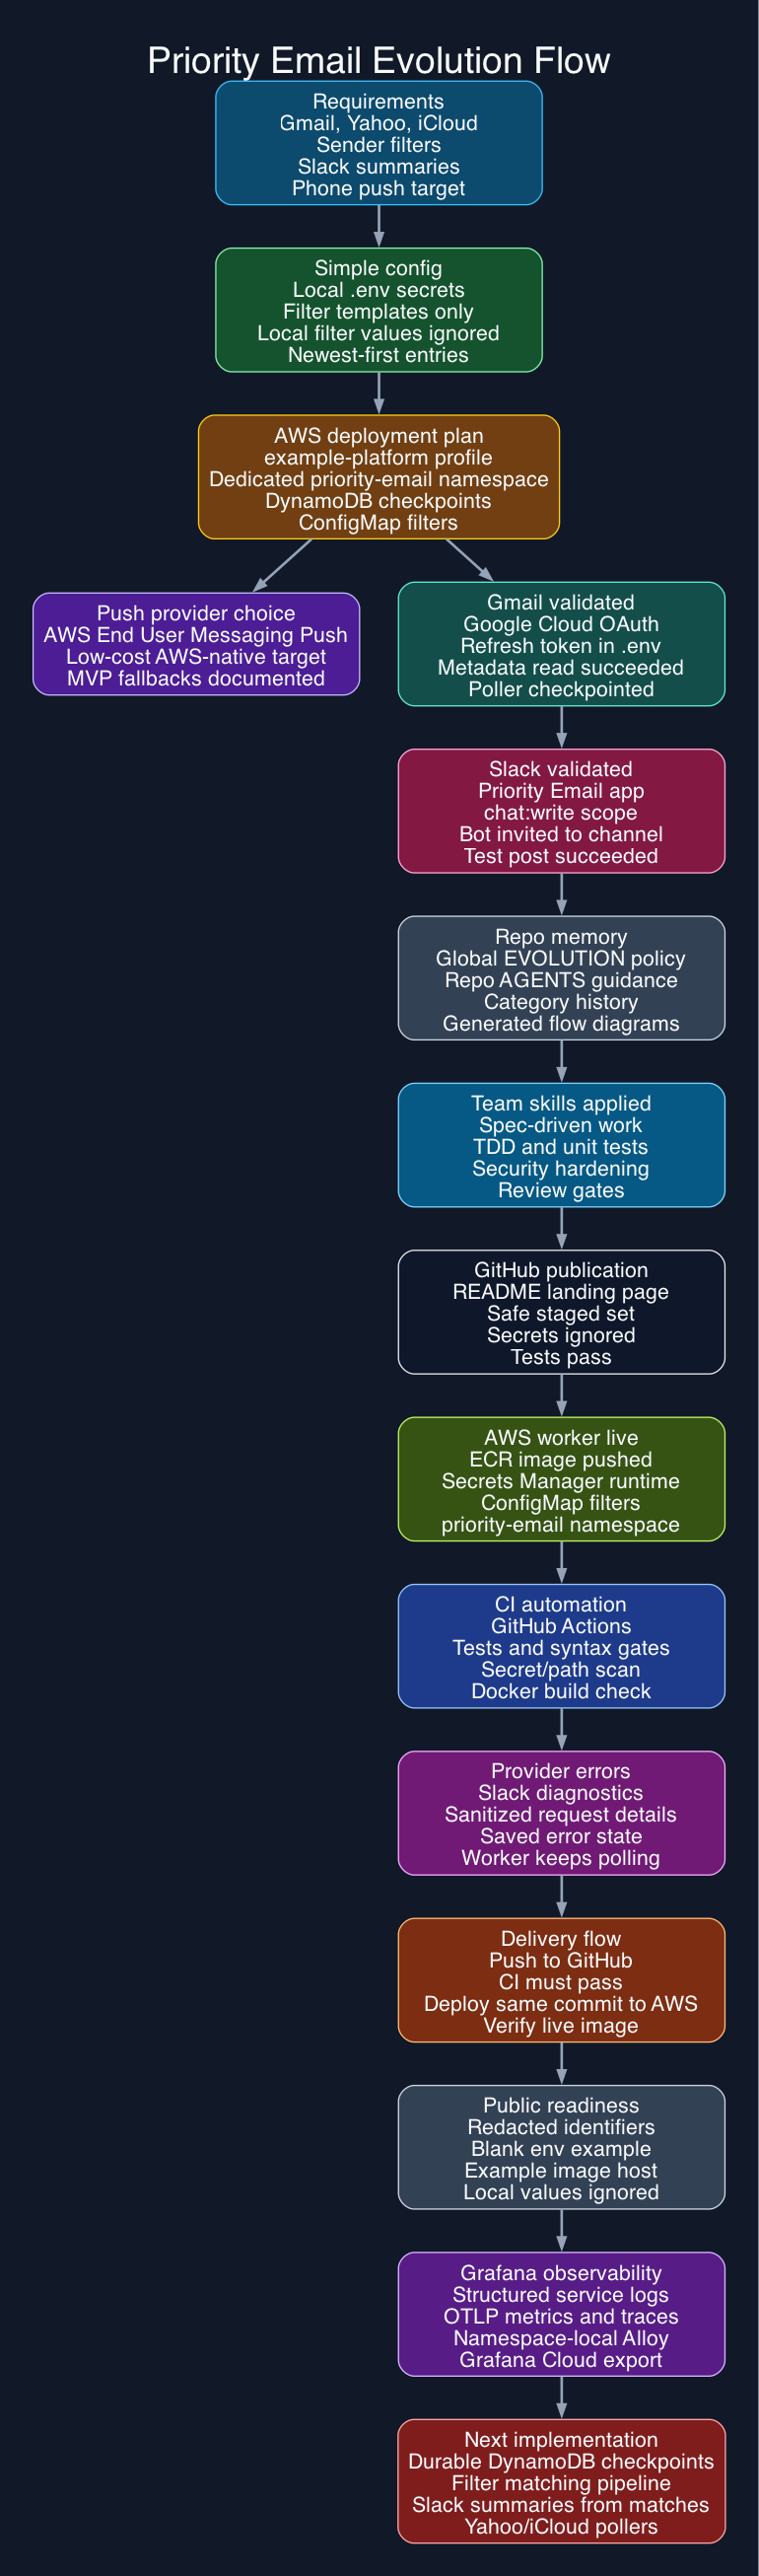
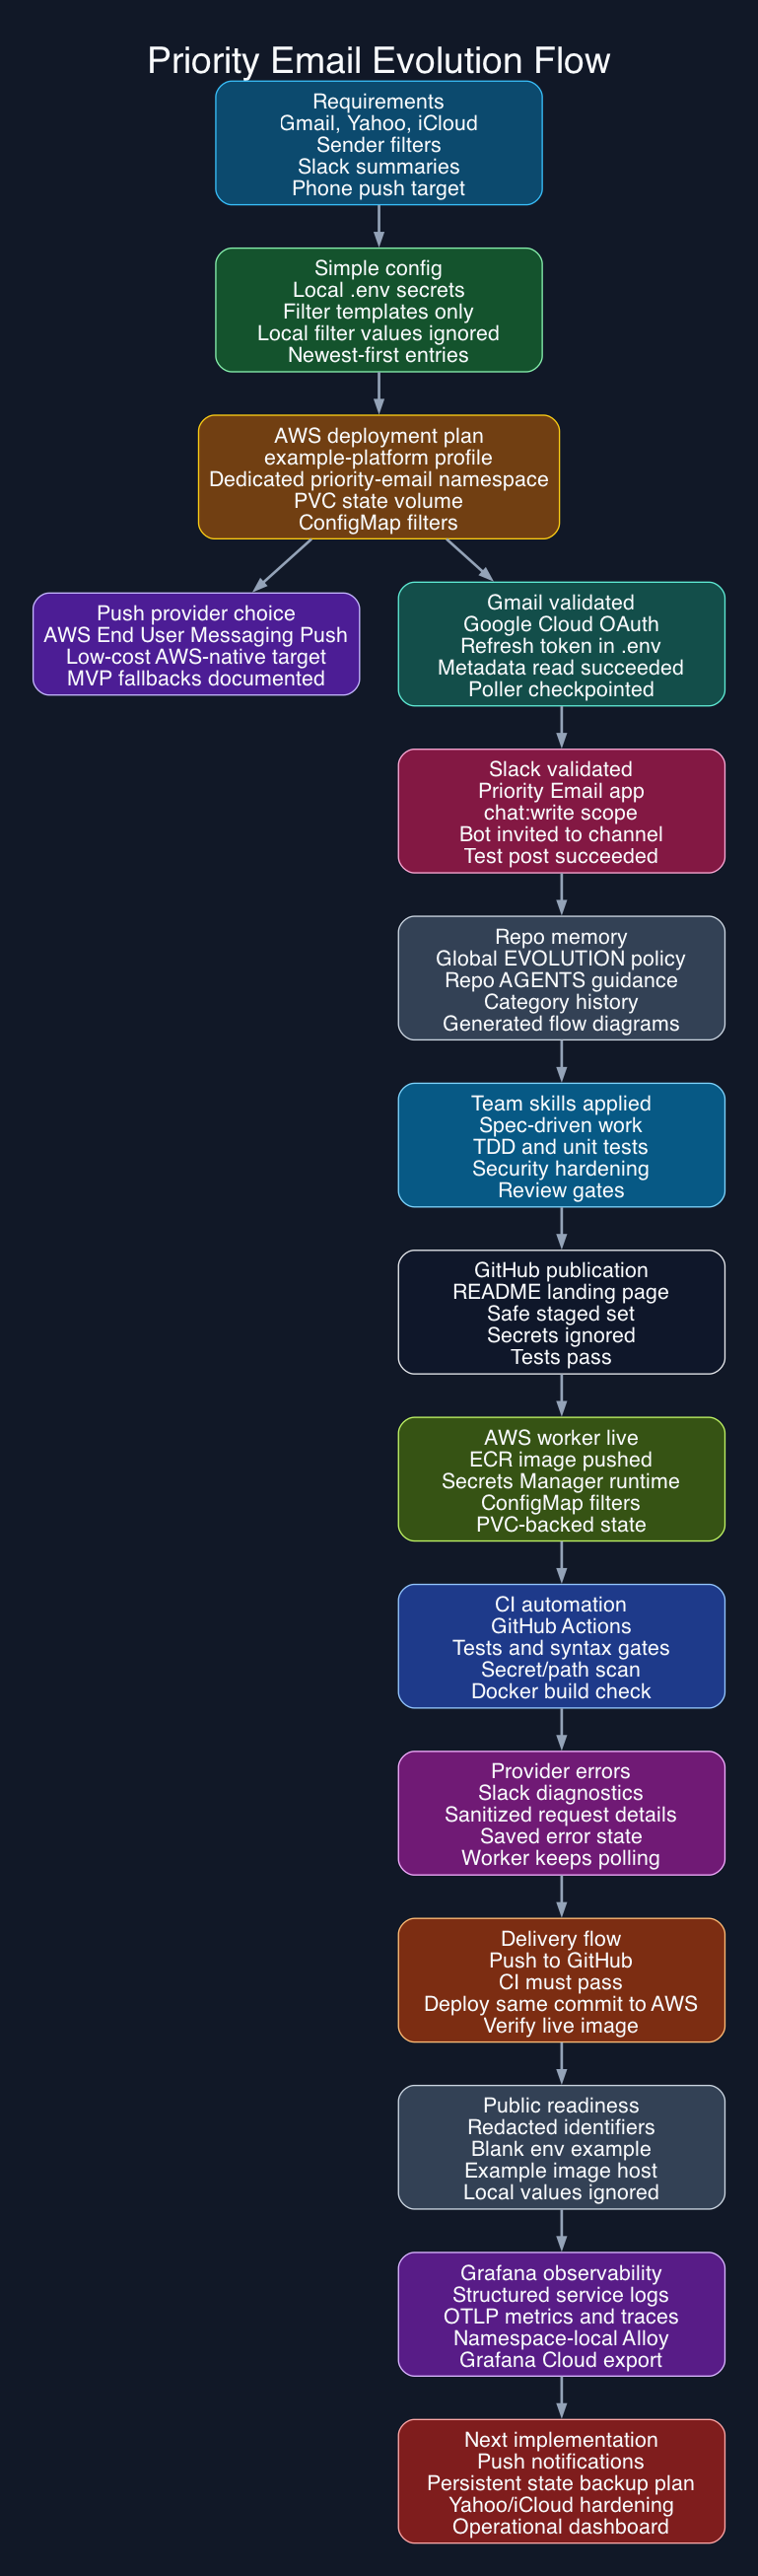
Add durable poller state volume

diff --git a/scripts/ci/k8s-static-check.py b/scripts/ci/k8s-static-check.py
@@ -10,6 +10,7 @@ REQUIRED = {
     "alloy.yaml": ("ServiceAccount", "priority-email-alloy"),
     "namespace.yaml": ("Namespace", "priority-email"),
     "serviceaccount.yaml": ("ServiceAccount", "priority-email-service"),
+    "state-pvc.yaml": ("PersistentVolumeClaim", "priority-email-state"),
     "deployment.yaml": ("Deployment", "priority-email-service"),
     "network-policy.yaml": ("NetworkPolicy", "default-deny-ingress"),
     "poddisruptionbudget.yaml": ("PodDisruptionBudget", "priority-email-service"),
@@ -51,6 +52,10 @@ def main():
         "http://alloy.priority-email.svc.cluster.local:4318",
         "EMAIL_POLL_LOG_FILE",
         "/tmp/email-poller.log",
+        "EMAIL_POLL_STATE_FILE",
+        "/var/lib/priority-email/email-poller-state.json",
+        "claimName: priority-email-state",
+        "type: Recreate",
         "EMAIL_LOG_LEVEL",
         "INFO",
     ]

diff --git a/DEPLOYMENT_PLAN.md b/DEPLOYMENT_PLAN.md
@@ -45,9 +45,9 @@ Current AWS deployment status:
 
 Current runtime limitation:
 
-- The first AWS worker deployment uses the local file checkpoint backend on pod-local `/tmp`, matching the current script implementation.
-- The reference EKS cluster currently has no EBS CSI add-on installed, so a PVC-backed checkpoint volume could not be provisioned during the initial deploy.
-- Durable AWS-hosted checkpoints remain the next data-stack step, preferably DynamoDB as already planned below.
+- Production checkpoint and notification-dedupe state is stored in `/var/lib/priority-email/email-poller-state.json`.
+- `/var/lib/priority-email` is backed by the `priority-email-state` Kubernetes PersistentVolumeClaim using the cluster `gp2` storage class.
+- The deployment uses `Recreate` so only one worker pod mounts the `ReadWriteOnce` state volume at a time.
 
 Initial service shape:
 
@@ -78,7 +78,7 @@ Initial service shape:
    - non-root runtime user
    - small production image
    - read-only root filesystem compatible behavior
-   - `/tmp` as the only writable path
+   - `/tmp` for transient poll logs and `/var/lib/priority-email` for durable production poller state
    - `.dockerignore` excludes local `.env`, real filters, OAuth client secret JSON, state, and generated secret material from the Docker build context
 
 3. Push images to ECR using the reference platform naming pattern:
@@ -289,6 +289,13 @@ ConfigMap strategy:
 - Keep newest filter entries at the head of each file.
 - Update filters by editing the source files, recreating/applying the ConfigMap, and restarting or rolling the deployment so the service reloads the mounted files predictably.
 - Commit only `filters/*.txt.template` files to GitHub. Never commit real `filters/*.txt` values.
+
+State persistence strategy:
+
+- Create a PersistentVolumeClaim named `priority-email-state`.
+- Mount it read/write at `/var/lib/priority-email`.
+- Store production `EMAIL_POLL_STATE_FILE` at `/var/lib/priority-email/email-poller-state.json`.
+- Use a single worker replica and a `Recreate` deployment strategy to avoid concurrent writes and EBS multi-attach conflicts.
 
 ## Phase 6: Ingress And Routing
 

diff --git a/EVOLUTION.md b/EVOLUTION.md
@@ -206,7 +206,7 @@ Key evidence:
 - ECR image: `<aws-account-id>.dkr.ecr.<aws-region>.amazonaws.com/priority-email-service:<image-tag>`, digest `<image-digest>`.
 - Kubernetes: `priority-email-service` rolled out successfully with one running replica.
 - First AWS poller log: Gmail initialization inspected 20 messages and wrote the checkpoint to `/tmp/email-poller-state.json`.
-- Storage finding: the reference EKS cluster has no EBS CSI add-on installed, so PVC-backed file checkpoints were not available during this deploy. Durable checkpoints remain planned for DynamoDB.
+- Storage finding: PVC-backed file checkpoints were not available during this first deploy, so durable checkpoints were temporarily deferred.
 
 Hard parts encountered:
 
@@ -216,7 +216,7 @@ Hard parts encountered:
 - Filter values had to stay uncommitted locally while still reaching the cluster, so the Kubernetes deploy script creates `priority-email-filters` from ignored `filters/*.txt` files instead of committed templates.
 - The first image was deployed as `latest`, then the workflow was tightened to pin Kubernetes to the immutable Git SHA image tag so source, ECR, and the live deployment can be correlated.
 - A deploy-script bug captured verbose Docker push output as part of the image URI. The live deployment stayed healthy on the prior image, the bad intermediate ReplicaSet was corrected, and the script now captures only the final image URI line before calling `kubectl set image`.
-- PVC-backed file checkpointing looked attractive for preserving poller state across pod restarts, but the reference EKS cluster has no EBS CSI add-on installed. The PVC remained pending, so the deployment was restored to pod-local `/tmp` state and durable checkpoints were deferred to the planned DynamoDB backend.
+- PVC-backed file checkpointing looked attractive for preserving poller state across pod restarts, but the initial volume rollout could not be completed cleanly. The deployment was restored to pod-local `/tmp` state until the later `priority-email-state` PVC hardening step moved production state to `/var/lib/priority-email`.
 - Rolling a sleeping worker creates brief old-pod/new-pod overlap while Kubernetes drains the previous poll loop. Final verification had to check ReplicaSets and the actual live pod image, not just a single `kubectl logs deployment/...` sample.
 - `.env` must be treated as dotenv data, not a shell script. A Grafana Cloud token contained shell-significant characters during monitoring rollout, so deploy helpers now parse only the AWS key/value fields they need instead of sourcing the whole secrets file.
 
@@ -301,6 +301,17 @@ Key evidence:
 - `scripts/poll-email.py`: matches sender metadata case-insensitively, posts one Slack summary per matched message, and deduplicates posts by provider/message ID within runtime state.
 - `scripts/poll-email.py`: skips matched-message Slack summaries during provider initialization by default to avoid reposting the latest inspected messages after pod cold starts while state is still local to the pod.
 - `tests/test_poll_email.py`: verifies filter matching, initialization skip behavior, Slack summary formatting, and duplicate-post suppression.
+
+### June 22, 2026: Add Durable Production Poller State
+
+Priority Email moved production checkpoint and notification-dedupe state from pod-local `/tmp` to a persistent Kubernetes volume.
+
+Key evidence:
+
+- `infra/k8s/state-pvc.yaml`: creates the `priority-email-state` PersistentVolumeClaim using the cluster `gp2` storage class.
+- `infra/k8s/deployment.yaml`: stores `EMAIL_POLL_STATE_FILE` at `/var/lib/priority-email/email-poller-state.json` and mounts the PVC at `/var/lib/priority-email`.
+- `infra/k8s/deployment.yaml`: uses `Recreate` rollout strategy so only one worker pod mounts the `ReadWriteOnce` state volume at a time.
+- `scripts/kubernetes/apply-manifests.sh` and `scripts/ci/k8s-static-check.py`: apply and validate the state PVC as part of the normal deployment flow.
 
 ### June 21, 2026: Standardize Functional Change Delivery
 

diff --git a/docs/evolution/categories/deployment-operations.md b/docs/evolution/categories/deployment-operations.md
@@ -25,14 +25,15 @@
 | 2026-06-21 | Gmail incremental polling was hardened to page all messages newer than the checkpoint and avoid metadata output unless `--verbose` is used. | `scripts/poll-email.py`, `tests/test_poll_email.py`, `REQUIREMENTS.md` |
 | 2026-06-21 | Priority Email adopted reference platform's local AWS profile and account/region settings without copying static AWS keys. | `.env.example`, `REQUIREMENTS.md`, `DEPLOYMENT_PLAN.md` |
 | 2026-06-21 | Priority Email was packaged and pushed to AWS: ECR image, Secrets Manager runtime secret, ConfigMap filters, and a live EKS worker in the `priority-email` namespace. | `Dockerfile`, `infra/k8s/`, `scripts/aws/`, `DEPLOYMENT_PLAN.md` |
-| 2026-06-21 | PVC-backed checkpointing was attempted but deferred because the reference EKS cluster has no EBS CSI add-on installed. Durable checkpoints remain planned for DynamoDB. | `DEPLOYMENT_PLAN.md`, `infra/k8s/deployment.yaml` |
+| 2026-06-21 | PVC-backed checkpointing was attempted but deferred during the first deployment. | `DEPLOYMENT_PLAN.md`, `EVOLUTION.md` |
 | 2026-06-21 | AWS deployment hard parts were captured: Docker daemon readiness, missing ECR repo creation, safe secret/filter propagation, immutable image pinning, a bad image URI capture bug, no EBS CSI provisioner, and rollout verification for a sleeping worker. | `EVOLUTION.md`, `scripts/aws/deploy-to-aws.sh`, `scripts/kubernetes/apply-manifests.sh` |
 | 2026-06-21 | CI/CD automation was added for pull requests and pushes to `main`, with offline quality gates that do not require production secrets. | `.github/workflows/ci.yml`, `.github/dependabot.yml`, `scripts/ci/` |
 | 2026-06-21 | Provider request failures were wired to Slack error notifications with sanitized request details and saved provider error state. | `scripts/poll-email.py`, `tests/test_poll_email.py`, `REQUIREMENTS.md` |
 | 2026-06-21 | Functional runtime changes were standardized to push to GitHub, wait for CI, deploy the same commit to AWS, and verify the live image tag. GitHub Actions were upgraded to Node 24-compatible action versions. | `.github/workflows/ci.yml`, `AGENTS.md`, `DEPLOYMENT_PLAN.md` |
 | 2026-06-21 | Public GitHub readiness replaced private deployment identifiers with placeholders while keeping real values in local ignored configuration. | `.env.example`, `DEPLOYMENT_PLAN.md`, `infra/k8s/deployment.yaml`, `scripts/aws/` |
 | 2026-06-21 | Priority Email added structured logs, OTLP metrics/traces, and a dedicated Grafana Alloy collector in the `priority-email` namespace. | `scripts/telemetry.py`, `infra/k8s/alloy.yaml`, `DEPLOYMENT_PLAN.md` |
+| 2026-06-22 | Production checkpoint and notification-dedupe state moved to the `priority-email-state` persistent volume. | `infra/k8s/state-pvc.yaml`, `infra/k8s/deployment.yaml`, `DEPLOYMENT_PLAN.md` |
 
 ## Current Operations Shape
 
-Priority Email now runs as a Kubernetes worker on the reference EKS cluster while remaining isolated in its own namespace. Runtime secrets are synced to AWS Secrets Manager and a namespace-local Kubernetes secret. Filter files are mounted from a namespace-local ConfigMap. A namespace-local Grafana Alloy collector receives OTLP metrics/traces and collects Priority Email pod logs for Grafana Cloud using a narrow observability secret with only Grafana ingest credentials. Durable runtime state is still planned for DynamoDB; the first worker deployment uses pod-local file state until the data-stack checkpoint backend is implemented. GitHub Actions enforces offline quality gates before source changes land on `main`, using Node 24-compatible official actions. Provider request failures are surfaced to Slack with sanitized details. Functional runtime changes now continue through AWS deployment after GitHub CI passes. Public docs use placeholders for account, project, workspace, path, and private deployment identifiers. The AWS deployment notes preserve the operational traps found during the first push so the next deployment can avoid repeating them.
+Priority Email now runs as a Kubernetes worker on the reference EKS cluster while remaining isolated in its own namespace. Runtime secrets are synced to AWS Secrets Manager and a namespace-local Kubernetes secret. Filter files are mounted from a namespace-local ConfigMap. Production checkpoint and notification-dedupe state is stored on the namespace-local `priority-email-state` persistent volume mounted at `/var/lib/priority-email`. A namespace-local Grafana Alloy collector receives OTLP metrics/traces and collects Priority Email pod logs for Grafana Cloud using a narrow observability secret with only Grafana ingest credentials. GitHub Actions enforces offline quality gates before source changes land on `main`, using Node 24-compatible official actions. Provider request failures are surfaced to Slack with sanitized details. Functional runtime changes now continue through AWS deployment after GitHub CI passes. Public docs use placeholders for account, project, workspace, path, and private deployment identifiers. The AWS deployment notes preserve the operational traps found during the first push so the next deployment can avoid repeating them.

diff --git a/README.md b/README.md
@@ -11,6 +11,7 @@ Priority Email monitors connected mail accounts for important sender matches, th
 - Incremental messages matching sender-name, exact email, or domain filters post Slack summaries when `SLACK_BOT_TOKEN` and `SLACK_CHANNEL_ID` are configured.
 - AWS deployment is live in the reference AWS account through the `example-platform` AWS CLI profile.
 - The live Kubernetes worker runs in the dedicated `priority-email` namespace.
+- Production checkpoint and notification-dedupe state is stored on the `priority-email-state` persistent volume mounted at `/var/lib/priority-email`.
 - Observability is standardized on Grafana Labs tooling and services.
 - The worker emits structured JSON logs with `service=priority-email-service`, OTLP traces, and OTLP metrics.
 - A namespace-local Grafana Alloy collector receives Priority Email OTLP signals and collects Priority Email pod logs.
@@ -35,6 +36,8 @@ Provider request failures are posted to Slack by default when `SLACK_BOT_TOKEN` 
 Matched email summaries are posted to Slack by default when `EMAIL_POLL_SLACK_SUMMARIES_ENABLED=true`. Provider initialization skips Slack summaries unless `EMAIL_NOTIFY_ON_INITIALIZATION=true`, which avoids reposting the latest inspected messages after cold starts.
 
 Each provider poll appends one JSON line to `EMAIL_POLL_LOG_FILE` for local audit/debugging. The Kubernetes default is `/tmp/email-poller.log`, and the local template default is `.state/email-poller.log`. Audit entries include `level=INFO` for successful polls and `level=ERROR` for failed polls.
+
+Production stores `EMAIL_POLL_STATE_FILE` at `/var/lib/priority-email/email-poller-state.json` on a Kubernetes PVC backed by the cluster `gp2` storage class. The deployment uses `Recreate` so only one worker pod mounts the state volume at a time.
 
 Runtime stdout logging is controlled by `EMAIL_LOG_LEVEL`. Production currently defaults to `INFO`, so successful poll-cycle logs are emitted to stdout for Alloy/Grafana and are also kept in the poll logfile. Provider failures emit `ERROR` logs with sanitized request, duration, Slack notification, and checkpoint context.
 

diff --git a/REQUIREMENTS.md b/REQUIREMENTS.md
@@ -30,6 +30,7 @@ Priority Email helps users avoid missing important messages that are buried acro
 - Priority Email emits structured JSON logs with `service=priority-email-service`.
 - Priority Email emits OTLP metrics and traces for provider poll cycles.
 - Priority Email Kubernetes manifests include a dedicated namespace-local Grafana Alloy collector that receives OTLP and collects pod logs from the `priority-email` namespace.
+- Priority Email Kubernetes manifests include a namespace-local persistent volume claim for production checkpoint and notification-dedupe state.
 - Local runtime secrets live in gitignored `.env`; `.env.example` is the committed-safe template.
 - AWS access uses the local AWS CLI profile `example-platform` for account `<aws-account-id>`; static AWS access keys must not be copied into this repo.
 - Real filter values live in gitignored `filters/*.txt`; only `filters/*.txt.template` files are safe to push to GitHub.
@@ -63,6 +64,7 @@ Priority Email helps users avoid missing important messages that are buried acro
 - Each email provider must have its own configurable poller.
 - The default poll interval must be 10 minutes.
 - Pollers must store a provider-specific checkpoint after every successful poll cycle.
+- Production provider checkpoint and notification-dedupe state must survive pod restarts.
 - After a provider checkpoint exists, each poll cycle must only inspect messages newer than the prior checkpoint.
 - When initializing a provider poller with no prior checkpoint, the poller must inspect only the latest 20 email messages before setting the first checkpoint.
 - The initial latest-message inspection limit must be configurable, with `20` as the default.